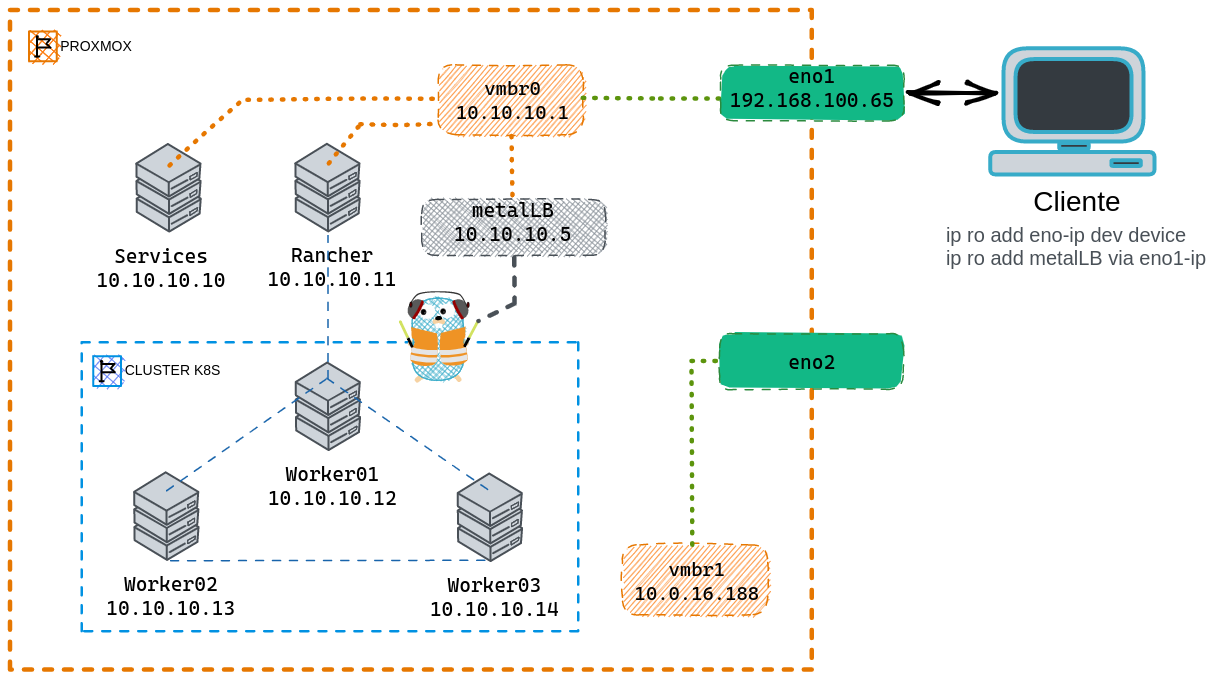
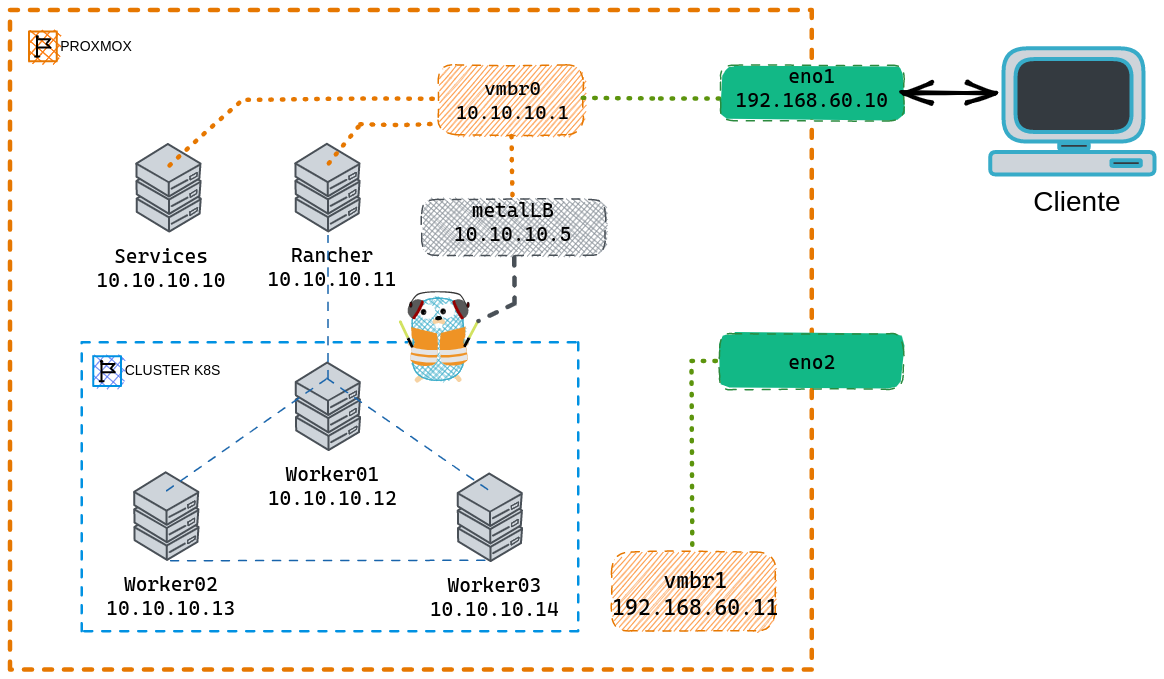
FIX: Update ReadMe

diff --git a/README.md b/README.md
@@ -34,6 +34,18 @@ ProxmoxVE tiene configuradas las siguentes Máquinas Virtuales (VM):
 | worker02  | 10.10.10.13 |
 | worker03  | 10.10.10.14 |
 
+En los nodos del cluster Proxmox se debe configurar como DNS el 192.168.60.254. A continuación se muestra un ejemplo de la configuración requerida por netplan
+
+```yaml
+network:
+  ethernets:
+    enp14s0:
+      dhcp4: true
+      nameservers:
+        addresess: [192.168.60.254]
+  version: 2
+```
+
 ### Configuración por defecto (/etc/network/interfaces)
 
 ```bash
@@ -66,8 +78,8 @@ iface lo inet loopback
 auto eno1
 #real IP address
 iface eno1 inet static
-    address  192.168.100.65/24
-    gateway  192.168.100.1
+    address  192.168.60.10/24
+    gateway  192.168.60.254
 
 auto eno2
 iface eno2 inet manual
@@ -87,7 +99,7 @@ iface vmbr0 inet static
 #backup IP address
 auto vmbr1
 iface vmbr1 inet static
-    address  10.0.16.188/24
+    address  192.168.60.11/24
     bridge-ports eno2
     bridge-stp off
     bridge-fd 0
